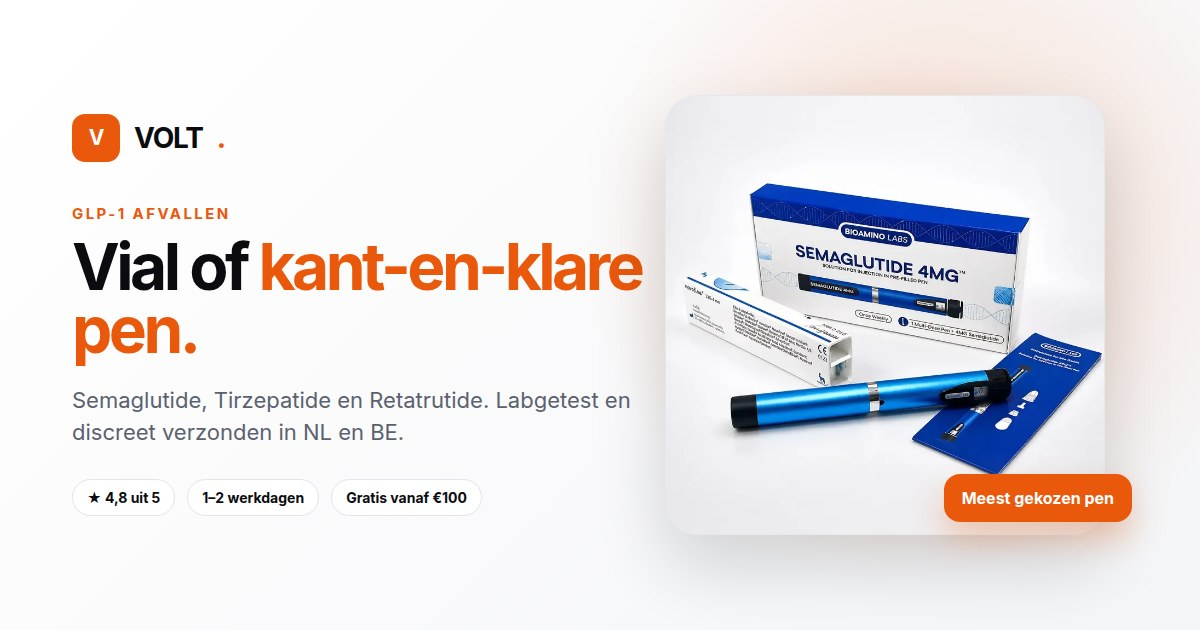
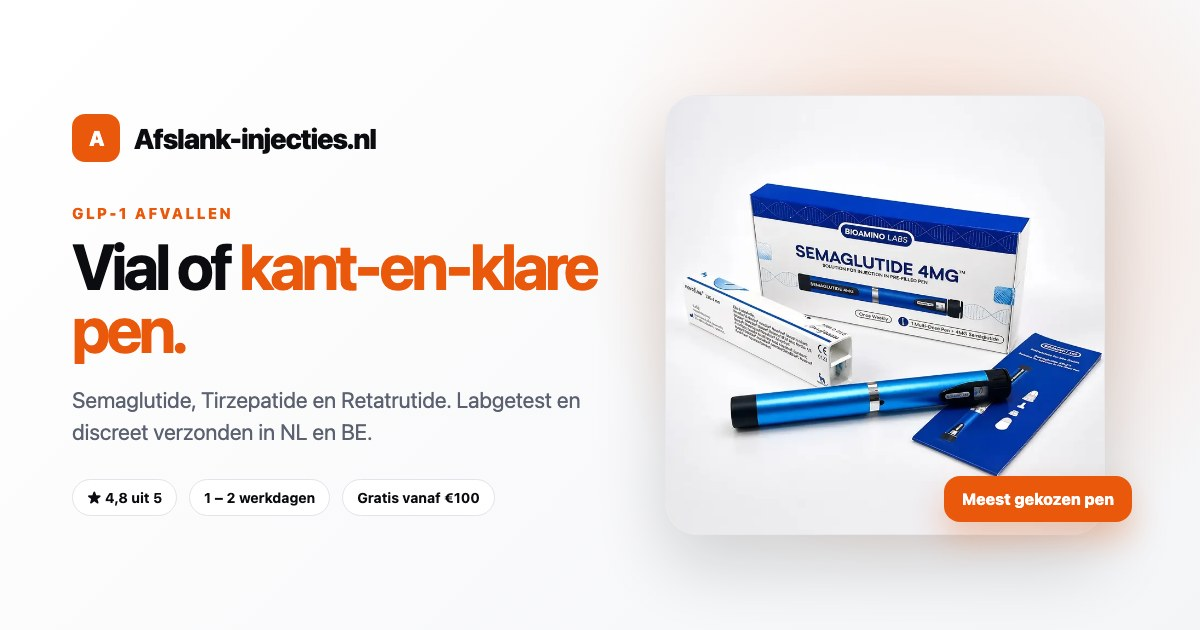
Replace visible VOLT branding (#20)

diff --git a/src/lib/server/mail/templates.ts b/src/lib/server/mail/templates.ts
@@ -19,7 +19,7 @@ function layout(title: string, content: string): string {
       <tr><td align="center">
         <table role="presentation" width="100%" cellspacing="0" cellpadding="0" style="max-width:600px;background:#ffffff;border:1px solid #e4e7eb;border-radius:16px">
           <tr><td style="padding:28px">
-            <div style="color:#f06423;font-size:20px;font-weight:800;letter-spacing:.08em">VOLT</div>
+            <div style="color:#f06423;font-size:20px;font-weight:800">Afslank-injecties.nl</div>
             <h1 style="margin:20px 0 12px;font-size:24px;line-height:1.25">${escapeHtml(title)}</h1>
             ${content}
             <p style="margin:24px 0 0;color:#667085;font-size:13px;line-height:1.5">afslank-injecties.nl</p>
@@ -95,7 +95,7 @@ export function orderCustomerConfirmationMail(input: {
        <p style="margin:16px 0 0"><a href="${accountUrl}" style="display:inline-block;border-radius:10px;background:#f06423;color:#ffffff;padding:11px 16px;text-decoration:none;font-weight:700">Account aanmaken</a></p>`;
   return {
     subject,
-    textBody: `Beste ${input.name},\n\nWe hebben je bestelling ${input.orderNumber} ontvangen.\n\n${plainOrderLines(input.lines)}\n\nTotaal bij bestelling: ${formatEuro(input.totalCents)}\n\nBezorgadres:\n${plainAddress(input.address)}\n\nHet bedrag dat bij het plaatsen van de bestelling is vastgelegd blijft leidend.\n\n${accountText}\n\nMet vriendelijke groet,\nVOLT`,
+    textBody: `Beste ${input.name},\n\nWe hebben je bestelling ${input.orderNumber} ontvangen.\n\n${plainOrderLines(input.lines)}\n\nTotaal bij bestelling: ${formatEuro(input.totalCents)}\n\nBezorgadres:\n${plainAddress(input.address)}\n\nHet bedrag dat bij het plaatsen van de bestelling is vastgelegd blijft leidend.\n\n${accountText}\n\nMet vriendelijke groet,\nAfslank-injecties.nl`,
     htmlBody: layout(
       `Bestelling ${input.orderNumber} ontvangen`,
       `<p style="margin:0 0 14px;line-height:1.6">Beste ${escapeHtml(input.name)},</p>
@@ -143,7 +143,7 @@ export function orderStatusChangedMail(input: {
   const subject = `Status van bestelling ${input.orderNumber}: ${label}`;
   return {
     subject,
-    textBody: `Beste ${input.name},\n\nDe status van je bestelling ${input.orderNumber} is gewijzigd naar: ${label}.\n\nMet vriendelijke groet,\nVOLT`,
+    textBody: `Beste ${input.name},\n\nDe status van je bestelling ${input.orderNumber} is gewijzigd naar: ${label}.\n\nMet vriendelijke groet,\nAfslank-injecties.nl`,
     htmlBody: layout(
       `Status gewijzigd naar ${label}`,
       `<p style="margin:0 0 14px;line-height:1.6">Beste ${escapeHtml(input.name)},</p>
@@ -160,7 +160,7 @@ export function orderAddressChangedMail(input: {
   const subject = `Bezorgadres van bestelling ${input.orderNumber} gewijzigd`;
   return {
     subject,
-    textBody: `Beste ${input.name},\n\nHet bezorgadres voor bestelling ${input.orderNumber} is gewijzigd naar:\n\n${plainAddress(input.address)}\n\nHeb je deze wijziging niet verwacht? Neem dan contact met ons op.\n\nMet vriendelijke groet,\nVOLT`,
+    textBody: `Beste ${input.name},\n\nHet bezorgadres voor bestelling ${input.orderNumber} is gewijzigd naar:\n\n${plainAddress(input.address)}\n\nHeb je deze wijziging niet verwacht? Neem dan contact met ons op.\n\nMet vriendelijke groet,\nAfslank-injecties.nl`,
     htmlBody: layout(
       "Bezorgadres gewijzigd",
       `<p style="margin:0 0 14px;line-height:1.6">Beste ${escapeHtml(input.name)},</p>
@@ -180,7 +180,7 @@ export function orderProductsChangedMail(input: {
   const subject = `Producten van bestelling ${input.orderNumber} gewijzigd`;
   return {
     subject,
-    textBody: `Beste ${input.name},\n\nDe te leveren producten voor bestelling ${input.orderNumber} zijn gewijzigd:\n\n${plainOrderLines(input.lines)}\n\nHet bij de bestelling vastgelegde bedrag van ${formatEuro(input.paidTotalCents)} blijft ongewijzigd.\n\nHeb je deze wijziging niet verwacht? Neem dan contact met ons op.\n\nMet vriendelijke groet,\nVOLT`,
+    textBody: `Beste ${input.name},\n\nDe te leveren producten voor bestelling ${input.orderNumber} zijn gewijzigd:\n\n${plainOrderLines(input.lines)}\n\nHet bij de bestelling vastgelegde bedrag van ${formatEuro(input.paidTotalCents)} blijft ongewijzigd.\n\nHeb je deze wijziging niet verwacht? Neem dan contact met ons op.\n\nMet vriendelijke groet,\nAfslank-injecties.nl`,
     htmlBody: layout(
       "Producten gewijzigd",
       `<p style="margin:0 0 14px;line-height:1.6">Beste ${escapeHtml(input.name)},</p>
@@ -220,13 +220,13 @@ export function contactCustomerReceiptMail(input: {
   const safeName = escapeHtml(input.name);
   return {
     subject,
-    textBody: `Beste ${input.name},\n\nBedankt voor je bericht. We hebben het goed ontvangen en reageren binnen 48 uur op werkdagen.\n\nMet vriendelijke groet,\nVOLT`,
+    textBody: `Beste ${input.name},\n\nBedankt voor je bericht. We hebben het goed ontvangen en reageren binnen 48 uur op werkdagen.\n\nMet vriendelijke groet,\nAfslank-injecties.nl`,
     htmlBody: layout(
       "We hebben je bericht ontvangen",
       `<p style="margin:0 0 14px;line-height:1.6">Beste ${safeName},</p>
        <p style="margin:0 0 14px;line-height:1.6">Bedankt voor je bericht. We hebben het goed ontvangen.</p>
        <p style="margin:0;line-height:1.6"><strong>We reageren binnen 48 uur op werkdagen.</strong></p>
-       <p style="margin:22px 0 0;line-height:1.6">Met vriendelijke groet,<br>VOLT</p>`,
+       <p style="margin:22px 0 0;line-height:1.6">Met vriendelijke groet,<br>Afslank-injecties.nl</p>`,
     ),
   };
 }

diff --git a/src/lib/server/account-mail-templates.server.ts b/src/lib/server/account-mail-templates.server.ts
@@ -18,7 +18,7 @@ function accountMailLayout(title: string, body: string): string {
       <tr><td align="center">
         <table role="presentation" width="100%" cellspacing="0" cellpadding="0" style="max-width:600px;background:#fff;border:1px solid #e4e7eb;border-radius:16px">
           <tr><td style="padding:28px">
-            <div style="color:#f06423;font-size:20px;font-weight:800;letter-spacing:.08em">VOLT</div>
+            <div style="color:#f06423;font-size:20px;font-weight:800">Afslank-injecties.nl</div>
             <h1 style="margin:20px 0 12px;font-size:24px;line-height:1.25">${escapeHtml(title)}</h1>
             ${body}
             <p style="margin:24px 0 0;color:#667085;font-size:13px;line-height:1.5">afslank-injecties.nl</p>
@@ -51,11 +51,11 @@ export function accountVerificationMail(input: {
     userId: input.userId,
     to: input.email,
     subject,
-    textBody: `Beste ${name},\n\nBevestig je e-mailadres om je VOLT-account te activeren:\n${input.url}\n\nDeze link is 1 uur geldig. Heb je dit account niet aangemaakt? Dan kun je deze e-mail negeren.`,
+    textBody: `Beste ${name},\n\nBevestig je e-mailadres om je account bij Afslank-injecties.nl te activeren:\n${input.url}\n\nDeze link is 1 uur geldig. Heb je dit account niet aangemaakt? Dan kun je deze e-mail negeren.`,
     htmlBody: accountMailLayout(
       subject,
       `<p style="margin:0 0 14px;line-height:1.6">Beste ${escapeHtml(name)},</p>
-       <p style="margin:0;line-height:1.6">Bevestig je e-mailadres om je VOLT-account te activeren.</p>
+       <p style="margin:0;line-height:1.6">Bevestig je e-mailadres om je account bij Afslank-injecties.nl te activeren.</p>
        ${actionButton("E-mailadres bevestigen", input.url)}
        <p style="margin:18px 0 0;color:#667085;font-size:13px;line-height:1.5">Deze link is 1 uur geldig. Heb je dit account niet aangemaakt? Dan kun je deze e-mail negeren.</p>`,
     ),

diff --git a/src/routes/admin.tsx b/src/routes/admin.tsx
@@ -60,7 +60,7 @@ export const Route = createFileRoute("/admin")({
   component: AdminPage,
   head: () => ({
     meta: [
-      { title: "Beheer | VOLT" },
+      { title: "Beheer | Afslank-injecties.nl" },
       { name: "robots", content: "noindex, nofollow, noarchive" },
     ],
   }),
@@ -178,17 +178,20 @@ function AdminFrame({ children }: { children: ReactNode }) {
     <div className="min-h-dvh bg-bg-elevated text-fg">
       <header className="border-b border-border bg-surface">
         <div className="container-max section-pad flex min-h-16 items-center justify-between gap-4 py-3">
-          <Link to="/" className="flex items-center gap-2.5">
-            <span className="flex size-9 items-center justify-center rounded-lg bg-primary text-sm font-extrabold text-primary-fg">
-              V
+          <Link to="/" className="flex min-w-0 items-center gap-2.5">
+            <span className="flex size-9 shrink-0 items-center justify-center rounded-lg bg-primary text-sm font-extrabold text-primary-fg">
+              A
             </span>
-            <span className="font-extrabold tracking-tight">
-              VOLT<span className="text-primary">.</span> Beheer
+            <span className="min-w-0 text-sm font-extrabold leading-tight tracking-tight sm:text-base">
+              <span className="block truncate">Afslank-injecties.nl</span>
+              <span className="block text-xs font-semibold text-muted">
+                Beheer
+              </span>
             </span>
           </Link>
           <Link
             to="/"
-            className="text-sm font-semibold text-muted hover:text-fg"
+            className="shrink-0 text-xs font-semibold text-muted hover:text-fg sm:text-sm"
           >
             Terug naar winkel
           </Link>

diff --git a/src/components/document-title-badge.tsx b/src/components/document-title-badge.tsx
@@ -3,12 +3,14 @@ import { useRouterState } from "@tanstack/react-router";
 import { cartCount, useCartStore } from "@/lib/cart-store";
 import { getProduct, SITE } from "@/lib/product";
 
-const BASE = "GLP-1 Afvallen | VOLT";
+const BASE = "GLP-1 Afvallen | Afslank-injecties.nl";
 
 export function DocumentTitleBadge() {
   const lines = useCartStore((s) => s.lines);
   const count = cartCount(lines);
-  const pathname = useRouterState({ select: (state) => state.location.pathname });
+  const pathname = useRouterState({
+    select: (state) => state.location.pathname,
+  });
   const product = pathname.startsWith("/product/")
     ? getProduct(pathname.split("/").filter(Boolean).at(-1))
     : undefined;
@@ -16,7 +18,13 @@ export function DocumentTitleBadge() {
     ? `${product.name} kopen | ${SITE.brand}`
     : pathname.startsWith("/product/")
       ? `Product | ${SITE.brand}`
-      : BASE;
+      : pathname === "/checkout"
+        ? `Afrekenen | ${SITE.brand}`
+        : pathname === "/account"
+          ? `Mijn account | ${SITE.brand}`
+          : pathname.startsWith("/bestelling/")
+            ? `Bestelling | ${SITE.brand}`
+            : BASE;
 
   useEffect(() => {
     document.title = count > 0 ? `(${count}) ${baseTitle}` : baseTitle;

diff --git a/src/routes/checkout.tsx b/src/routes/checkout.tsx
@@ -27,11 +27,11 @@ export const Route = createFileRoute("/checkout")({
   component: CheckoutPage,
   head: () => ({
     meta: [
-      { title: "Afrekenen | VOLT" },
+      { title: "Afrekenen | Afslank-injecties.nl" },
       {
         name: "description",
         content:
-          "Plaats je VOLT-bestelling voor levering in Nederland of België.",
+          "Plaats je bestelling bij Afslank-injecties.nl voor levering in Nederland of België.",
       },
       { name: "robots", content: "noindex, nofollow, noarchive" },
     ],

diff --git a/src/routes/bevestigingsmail-opnieuw.tsx b/src/routes/bevestigingsmail-opnieuw.tsx
@@ -16,7 +16,7 @@ export const Route = createFileRoute("/bevestigingsmail-opnieuw")({
   component: ResendVerificationPage,
   head: () => ({
     meta: [
-      { title: "Bevestigingsmail opnieuw sturen | VOLT" },
+      { title: "Bevestigingsmail opnieuw sturen | Afslank-injecties.nl" },
       { name: "robots", content: "noindex, nofollow, noarchive" },
     ],
   }),

diff --git a/src/lib/server/mail/config.server.ts b/src/lib/server/mail/config.server.ts
@@ -173,7 +173,8 @@ export function resolveMailConfiguration(
   }
 
   const smtpPort = port(value(environment, "SMTP_PORT"));
-  const fromName = value(environment, "MAIL_FROM_NAME") ?? "VOLT";
+  const fromName =
+    value(environment, "MAIL_FROM_NAME") ?? "Afslank-injecties.nl";
   if (
     fromName.length > 120 ||
     fromName.includes("\r") ||

diff --git a/src/routes/wachtwoord-vergeten.tsx b/src/routes/wachtwoord-vergeten.tsx
@@ -16,7 +16,7 @@ export const Route = createFileRoute("/wachtwoord-vergeten")({
   component: ForgotPasswordPage,
   head: () => ({
     meta: [
-      { title: "Wachtwoord vergeten | VOLT" },
+      { title: "Wachtwoord vergeten | Afslank-injecties.nl" },
       { name: "robots", content: "noindex, nofollow, noarchive" },
     ],
   }),

diff --git a/src/routes/wachtwoord-herstellen.tsx b/src/routes/wachtwoord-herstellen.tsx
@@ -19,7 +19,7 @@ export const Route = createFileRoute("/wachtwoord-herstellen")({
   component: ResetPasswordPage,
   head: () => ({
     meta: [
-      { title: "Nieuw wachtwoord | VOLT" },
+      { title: "Nieuw wachtwoord | Afslank-injecties.nl" },
       { name: "robots", content: "noindex, nofollow, noarchive" },
     ],
   }),

diff --git a/src/lib/auth/server.ts b/src/lib/auth/server.ts
@@ -189,7 +189,7 @@ const grokOAuthPlugin = oauthConfigured
   : null;
 
 export const auth = betterAuth({
-  appName: "VOLT",
+  appName: "Afslank-injecties.nl",
   baseURL,
   // Deployed apps inject BETTER_AUTH_SECRET. Preview: process-stable secret on
   // globalThis so HMR doesn't invalidate PGLite-backed sessions (see above).

diff --git a/src/routes/bestelling.$id.tsx b/src/routes/bestelling.$id.tsx
@@ -27,7 +27,7 @@ export const Route = createFileRoute("/bestelling/$id")({
   component: OrderConfirmationPage,
   head: () => ({
     meta: [
-      { title: "Bestelling | VOLT" },
+      { title: "Bestelling | Afslank-injecties.nl" },
       { name: "robots", content: "noindex, nofollow, noarchive" },
     ],
   }),

diff --git a/src/routes/registreren.tsx b/src/routes/registreren.tsx
@@ -26,7 +26,7 @@ export const Route = createFileRoute("/registreren")({
   component: RegisterPage,
   head: () => ({
     meta: [
-      { title: "Account aanmaken | VOLT" },
+      { title: "Account aanmaken | Afslank-injecties.nl" },
       { name: "robots", content: "noindex, nofollow, noarchive" },
     ],
   }),
